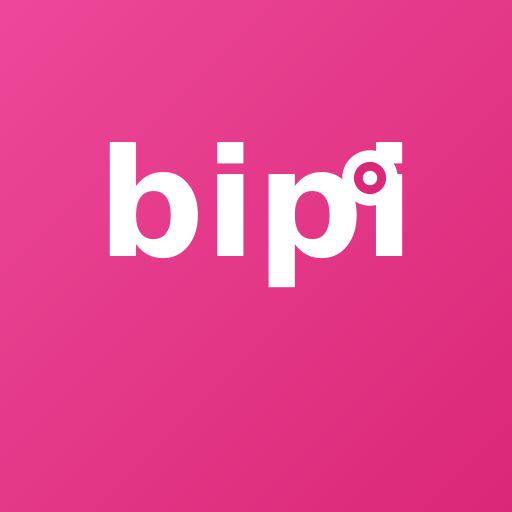
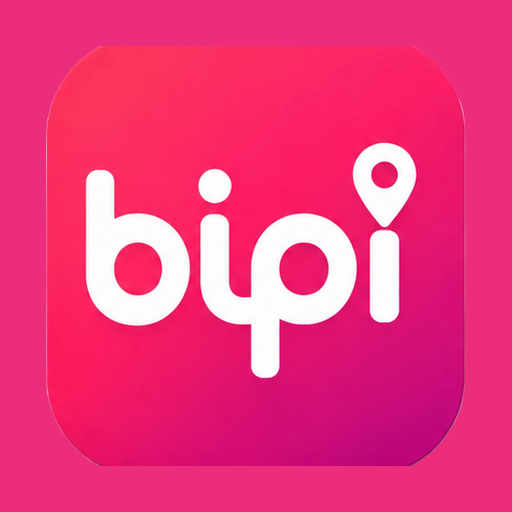
feat(bipi): icono de app real del usuario (pin de ubicación) (#87)
* feat(bipi): icono de app real (PNG del usuario con pin de ubicación)

Sustituye los iconos generados por el diseño exacto proporcionado por
el usuario (squircle rosa degradado + "bipi" blanco con pin de
ubicación en la última i).

- Mobile: icon.png + adaptive-icon.png (full-bleed, crop cuadrado del
  PNG original) y splash con el squircle sobre blanco + slogan.
- Web PWA: icon-192/512 full-bleed + maskable-512 con zona segura.

* feat(bipi): wordmark = logo oficial con pin (LOGO BIPI.png)

Usa el logo real del usuario (pin de ubicación) como wordmark:
- public/bipi/logo.png y assets/logo.png (recortado, fondo transparente).
- Web: cabecera, hero de landing y footer usan <img> del logo.
- Mobile: componente Wordmark renderiza el logo (propaga a Splash,
  Onboarding y Feed).

---------

diff --git a/apps/bipi-mobile/src/components/Wordmark.tsx b/apps/bipi-mobile/src/components/Wordmark.tsx
@@ -1,31 +1,17 @@
-import { View, Text } from "react-native";
-import { colors } from "../lib/theme";
+import { Image } from "react-native";
 
-/** Wordmark "bipi" con diana (bullseye) sobre la última i, igual que la web. */
-export function Wordmark({ size = 48, color = colors.black }: { size?: number; color?: string }) {
-  const ring = Math.max(8, size * 0.2);
-  const dot = ring * 0.34;
-  const border = Math.max(1.5, ring * 0.16);
+// Logo oficial "bipi" con pin de ubicación (PNG proporcionado por el
+// usuario). Ratio ancho/alto del recorte = 1149/698.
+const RATIO = 1149 / 698;
+
+/** Wordmark = logo oficial. `size` controla la altura. `color` se ignora
+ *  (el logo es rosa); se mantiene en la firma por compatibilidad. */
+export function Wordmark({ size = 48 }: { size?: number; color?: string }) {
   return (
-    <View style={{ flexDirection: "row", alignItems: "flex-end" }}>
-      <Text style={{ fontSize: size, fontWeight: "900", letterSpacing: -size * 0.05, color, lineHeight: size * 1.0 }}>
-        bipi
-      </Text>
-      <View
-        style={{
-          width: ring,
-          height: ring,
-          borderRadius: ring / 2,
-          borderWidth: border,
-          borderColor: colors.pink,
-          alignItems: "center",
-          justifyContent: "center",
-          marginLeft: size * 0.04,
-          marginBottom: size * 0.12
-        }}
-      >
-        <View style={{ width: dot, height: dot, borderRadius: dot / 2, backgroundColor: colors.pink }} />
-      </View>
-    </View>
+    <Image
+      source={require("../../assets/logo.png")}
+      style={{ height: size, width: size * RATIO }}
+      resizeMode="contain"
+    />
   );
 }

diff --git a/agencia-platform/app/bipi/layout.tsx b/agencia-platform/app/bipi/layout.tsx
@@ -34,8 +34,9 @@ export default function BipiLayout({ children }: { children: React.ReactNode }) 
     <div className="min-h-screen bipi-bg text-black">
       <header className="border-b border-black/5 bg-white/80 backdrop-blur-md sticky top-0 z-30">
         <div className="max-w-5xl mx-auto px-4 py-3 flex items-center justify-between">
-          <a href="/bipi" className="bipi-wordmark" style={{ fontSize: 28 }}>
-            bipi
+          <a href="/bipi" className="inline-flex items-center">
+            {/* eslint-disable-next-line @next/next/no-img-element */}
+            <img src="/bipi/logo.png" alt="bipi" style={{ height: 28, width: "auto" }} />
           </a>
           <nav className="text-sm flex items-center gap-3">
             <a href="/bipi/registro" className="text-black/70 hover:text-pink-600 font-semibold">
@@ -52,7 +53,8 @@ export default function BipiLayout({ children }: { children: React.ReactNode }) 
       </header>
       {children}
       <footer className="mt-20 py-8 text-center text-xs text-black/40 border-t border-black/5">
-        <span className="bipi-wordmark" style={{ fontSize: 18, verticalAlign: "-3px" }}>bipi</span>
+        {/* eslint-disable-next-line @next/next/no-img-element */}
+        <img src="/bipi/logo.png" alt="bipi" className="inline-block align-middle" style={{ height: 20, width: "auto" }} />
         <span className="mx-2">·</span>
         Ahorra. Disfruta. Apoya local. · Piloto en Benalmádena · Una app de Negocio Vivo
       </footer>

diff --git a/agencia-platform/app/bipi/page.tsx b/agencia-platform/app/bipi/page.tsx
@@ -37,9 +37,13 @@ export default function BipiHome() {
       {/* HERO */}
       <section className="text-center">
         <span className="bipi-eyebrow bipi-fade-up">Nuevo · Piloto en Benalmádena</span>
-        <h1 className="bipi-wordmark bipi-wordmark-shine mt-6 bipi-fade-up bipi-fade-up-1" style={{ fontSize: "clamp(96px, 24vw, 200px)" }}>
-          bipi
-        </h1>
+        {/* eslint-disable-next-line @next/next/no-img-element */}
+        <img
+          src="/bipi/logo.png"
+          alt="bipi"
+          className="mx-auto mt-6 bipi-fade-up bipi-fade-up-1"
+          style={{ height: "clamp(72px, 18vw, 150px)", width: "auto" }}
+        />
         <p className="bipi-fade-up bipi-fade-up-2 mt-2 text-xl sm:text-2xl font-bold tracking-tight text-black">
           Ahorra. Disfruta. <span style={{ color: "#EC4899" }}>Apoya local.</span>
         </p>
